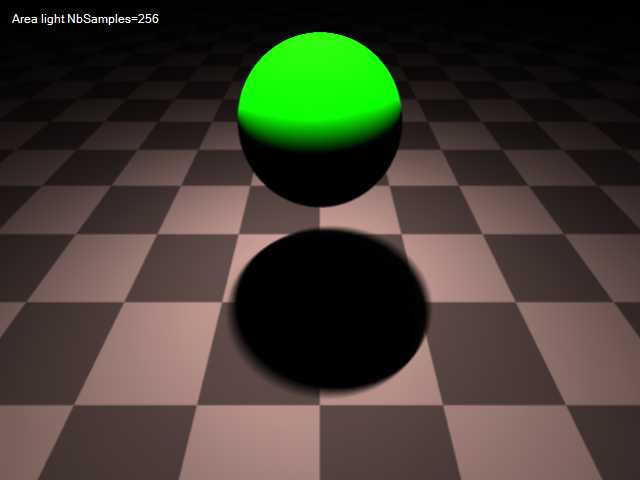
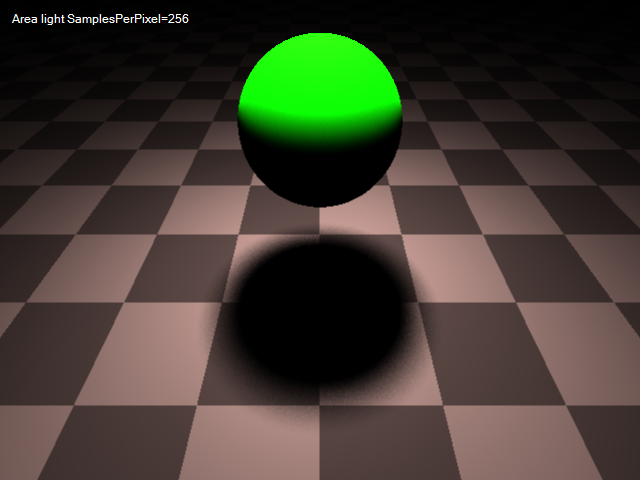
Direct Lightning / Area light / PixelSampler

diff --git a/pbrt/Pbrt.Demos/Renderers/AreaLightRenderer.cs b/pbrt/Pbrt.Demos/Renderers/AreaLightRenderer.cs
@@ -11,15 +11,15 @@ namespace Pbrt.Demos.renderers
 {
     public class AreaLightRenderer : AbstractRenderer
     {
-        public override string FileName => $"AreaLight_NbSample={NbSamples}.png";
-        private int NbSamples { get; } 
-        public AreaLightRenderer(int nbSamples=16) : base($"Area light {nameof(NbSamples)}={nbSamples}", Brushes.White)
+        public override string FileName => $"AreaLight_NbSample={SamplesPerPixel}.png";
+        private int SamplesPerPixel { get; } 
+        public AreaLightRenderer(int samplesPerPixel=16) : base($"Area light {nameof(SamplesPerPixel)}={samplesPerPixel}", Brushes.White)
         {
-            NbSamples = nbSamples;
+            SamplesPerPixel = samplesPerPixel;
             Camera = GetCam((-0f, 3, -2), (0, 0, 1));
-            //Sampler = new PixelSampler(1, 1);
-            Sampler = new StratifiedSampler(2, 2, true, 1);
-            Scene = new AreaLightScene(NbSamples);
+            Sampler = new PixelSampler(samplesPerPixel, 1);
+            //Sampler = new StratifiedSampler(2, 2, true, 1);
+            Scene = new AreaLightScene(SamplesPerPixel);
             Scene.Init();
 
             var integrator = new DirectLightingIntegrator(Sampler, Camera, LightStrategy.UniformSampleAll, 5)

diff --git a/pbrt/Pbrt.Demos/Program.cs b/pbrt/Pbrt.Demos/Program.cs
@@ -26,9 +26,9 @@ namespace Pbrt.Demos
                 // new CloverRenderer(),
                 // new LensFocalSamplerTestRenderer(),
                 new AreaLightRenderer(1),
-                new AreaLightRenderer(4),
+                //new AreaLightRenderer(4),
                 new AreaLightRenderer(16),
-                new AreaLightRenderer(64),
+                //new AreaLightRenderer(64),
                 new AreaLightRenderer(256),
             };
 
